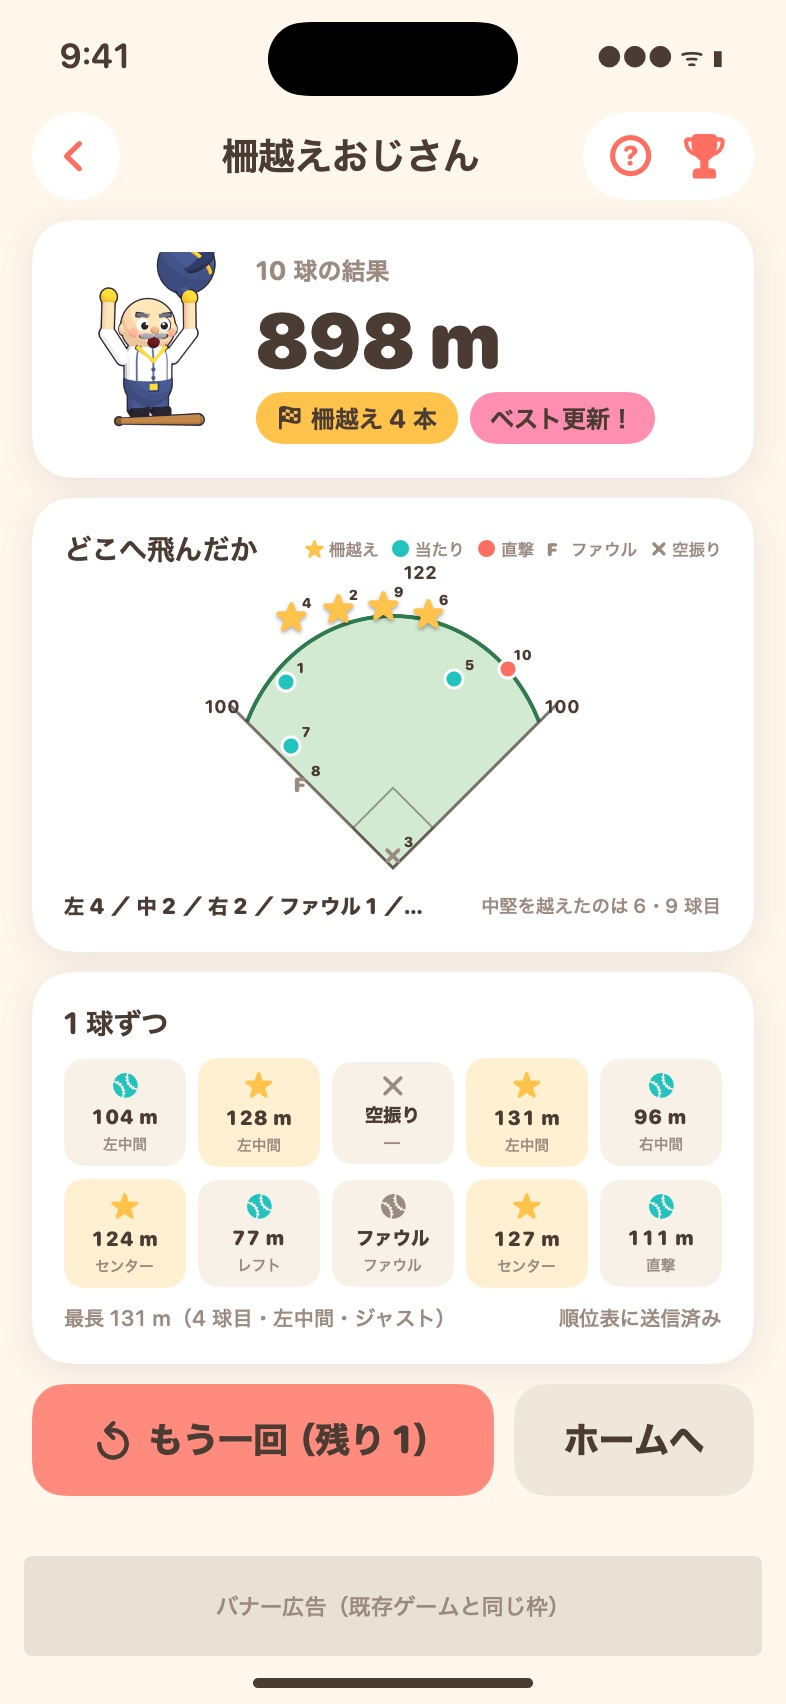
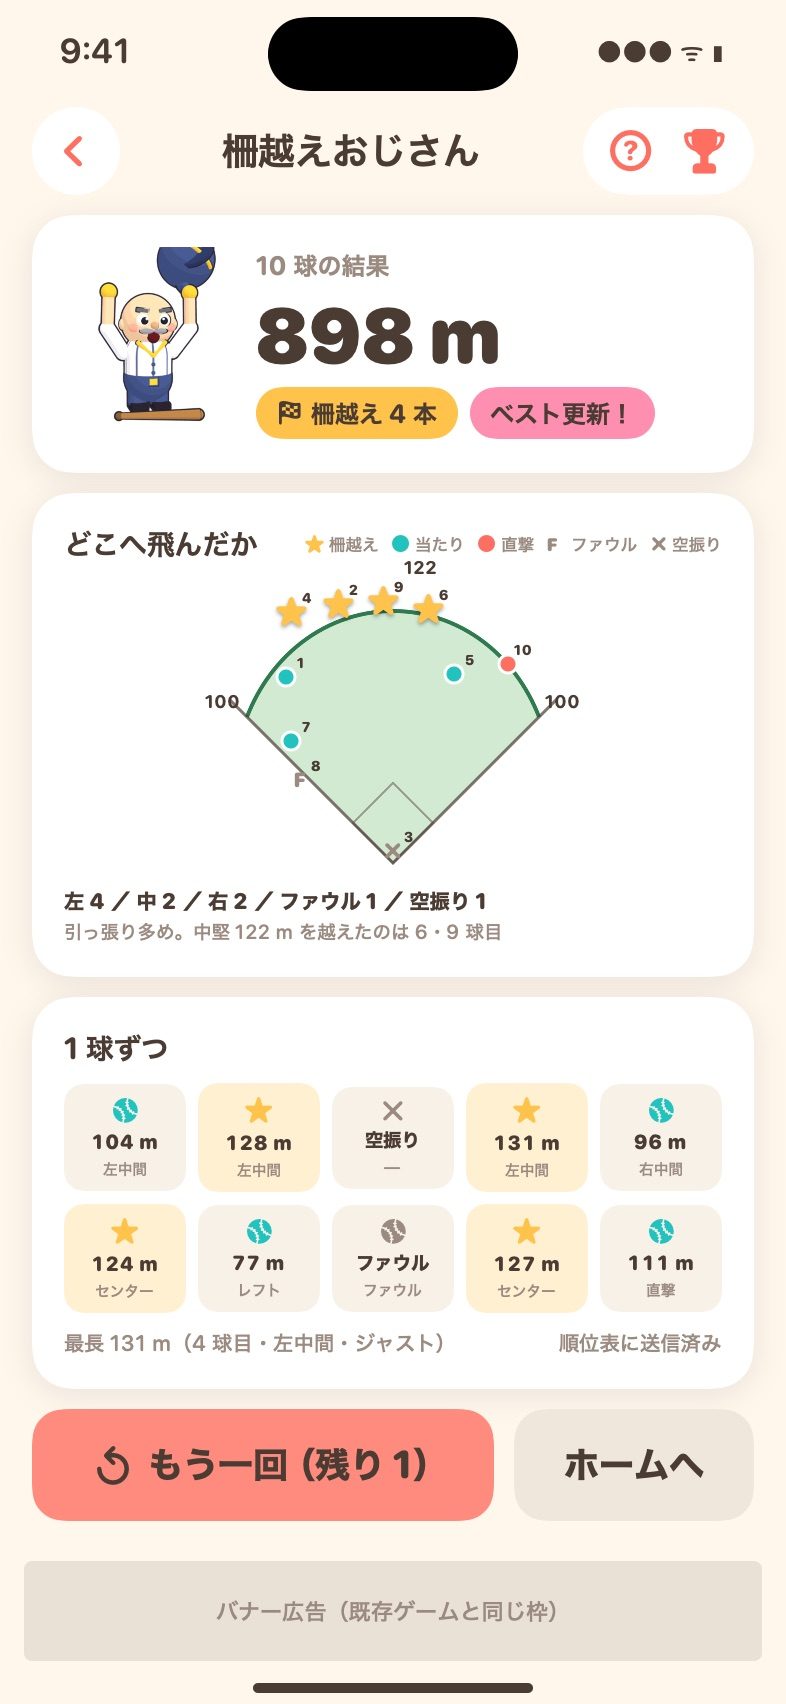
docs(design): スプレーチャートの要約を 2 行に分けて切れないようにする（#1316）

diff --git a/docs/design/homerun/mock.swift b/docs/design/homerun/mock.swift
@@ -1715,10 +1715,9 @@ struct Result3D: View {
                                 legend("star.fill", T.yellow, "柵越え"); legend("circle.fill", T.teal, "当たり"); legend("circle.fill", T.coral, "直撃"); Text("F").font(T.f(9, .black)).foregroundStyle(T.inkSub); Text("ファウル").font(T.f(9, .medium)).foregroundStyle(T.inkSub); legend("xmark", T.inkSub, "空振り")
                             }
                             FanChart(hits: hits, labels: true).frame(height: 150)
-                            HStack(spacing: 10) {
+                            VStack(alignment: .leading, spacing: 2) {
                                 Text("左 4 ／ 中 2 ／ 右 2 ／ ファウル 1 ／ 空振り 1").font(T.f(11, .heavy)).foregroundStyle(T.ink)
-                                Spacer()
-                                Text("中堅を越えたのは 6・9 球目").font(T.f(10, .medium)).foregroundStyle(T.inkSub).lineLimit(1).minimumScaleFactor(0.7)
+                                Text("引っ張り多め。中堅 122 m を越えたのは 6・9 球目").font(T.f(10, .medium)).foregroundStyle(T.inkSub)
                             }
                         }
                     }
